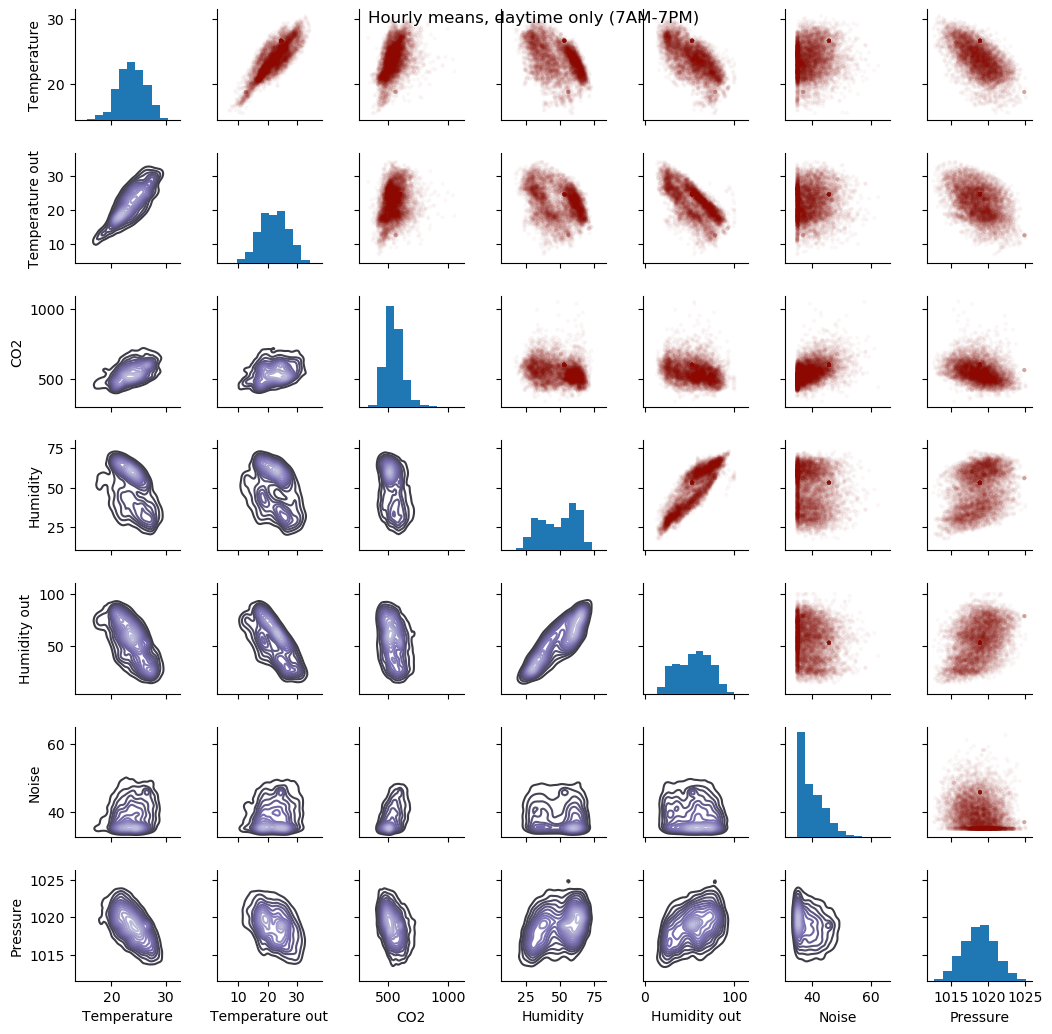
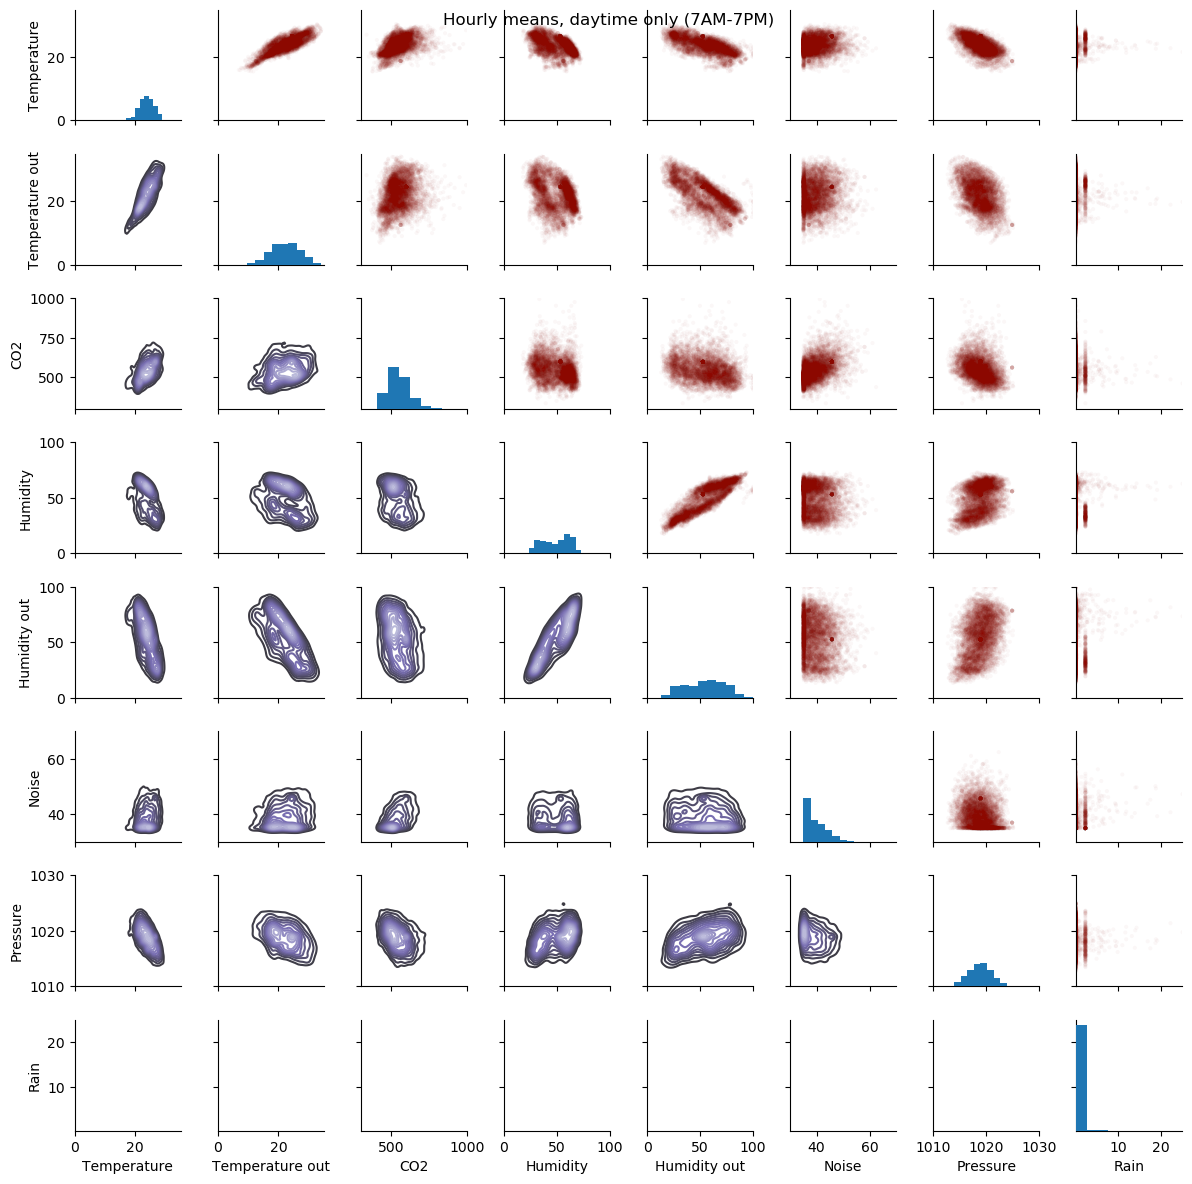
Add new pair plots for max and min each day

diff --git a/weather-2factor.py b/weather-2factor.py
@@ -7,6 +7,7 @@ sns.set_color_codes('dark')
 
 df_inside = pd.read_csv("netatmo_station.csv", sep=';', index_col=1, parse_dates=True)
 df_outside = pd.read_csv("netatmo_module.csv", sep=';', index_col=1, parse_dates=True)
+df_rain =  pd.read_csv("netatmo_rain.csv", sep=';', index_col=1, parse_dates=True)
 
 # Correct the pressures from before 2019-07
 lowmask = df_inside.Pressure < 1000.0
@@ -21,6 +22,7 @@ dfi_min_day = df_inside.resample('1D').min()
 dfi_med_hr = df_inside.resample('1H').mean()
 
 dfo_med_hr = df_outside.resample('1H').mean()
+dfr_sum_hr = df_rain.resample("1H").sum()
 
 # Restrict to afternoons, 12am to 5pm
 # pm_indices = dfi_med_hr.index.indexer_between_time('12:00', '17:00')
@@ -28,30 +30,46 @@ dfo_med_hr = df_outside.resample('1H').mean()
 # Restrict to daytime: 
 day_indices = dfi_med_hr.index.indexer_between_time('07:00', '19:00')
 
-df = dfi_med_hr.join(dfo_med_hr, rsuffix=" out")
+df = dfi_med_hr.join(dfo_med_hr, rsuffix=" out").join(dfr_sum_hr, rsuffix=" rain")
 df = df.iloc[day_indices]
 df = df.fillna(method='bfill')
 
 
 # df = dfi_min_day
-variables = ['Temperature', 'Temperature out', 'CO2', 'Humidity', 'Humidity out', 'Noise', 'Pressure']
-g = sns.PairGrid(df, vars=variables, size=1.5)
+variables = ['Temperature', 'Temperature out', 'CO2', 'Humidity', 'Humidity out', 'Noise', 'Pressure', 'Rain']
+minmax = {
+    'Temperature': [0, 35],
+    'Temperature out': [0, 35],
+    'CO2': [300, 1000],
+    'Humidity': [0, 100],
+    'Humidity out': [0, 100],
+    'Noise': [30, 70],
+    'Pressure': [1010, 1030],
+    'Rain': [0.1, 25],
+}
+variables = list(minmax)
+g = sns.PairGrid(df, vars=variables, height=1.5)
 g = g.map_upper(plt.scatter, marker='.', alpha=0.03, facecolor='r', edgecolor='none')
 g = g.map_lower(sns.kdeplot, cmap="Purples_d", n_levels=15)
 g = g.map_diag(plt.hist)
+# Make sure graph limits are always consistent
+for j, k in enumerate(variables):
+    g.axes[j, j].set(xlim=minmax[k], ylim=minmax[k])
 g.fig.suptitle("Hourly means, daytime only (7AM-7PM)")
 g.savefig(figfile)
 
 
 # Repeat for night time
 night_indices = dfi_med_hr.index.indexer_between_time('19:00', '07:00')
-df = dfi_med_hr.join(dfo_med_hr, rsuffix=" out")
+df = dfi_med_hr.join(dfo_med_hr, rsuffix=" out").join(dfr_sum_hr, rsuffix=" rain")
 df = df.iloc[night_indices]
 df = df.fillna(method='bfill')
-variables = ['Temperature', 'Temperature out', 'CO2', 'Humidity', 'Humidity out', 'Noise', 'Pressure']
 g = sns.PairGrid(df, vars=variables, size=1.5)
 g = g.map_upper(plt.scatter, marker='.', alpha=0.03, facecolor='r', edgecolor='none')
 g = g.map_lower(sns.kdeplot, cmap="Purples_d", n_levels=15)
 g = g.map_diag(plt.hist)
+# Make sure graph limits are same for night and day
+for j, k in enumerate(variables):
+    g.axes[j, j].set(xlim=minmax[k], ylim=minmax[k])
 g.fig.suptitle("Hourly means, nighttime only (7PM-7AM)")
 g.savefig(figfile.replace(".png", "-night.png"))
